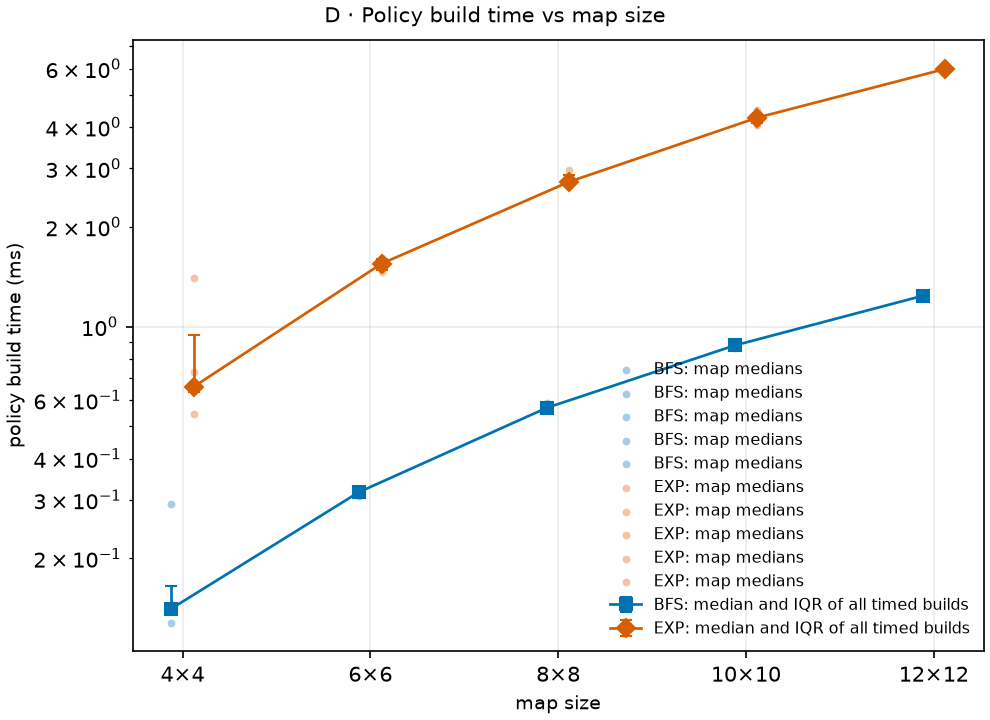
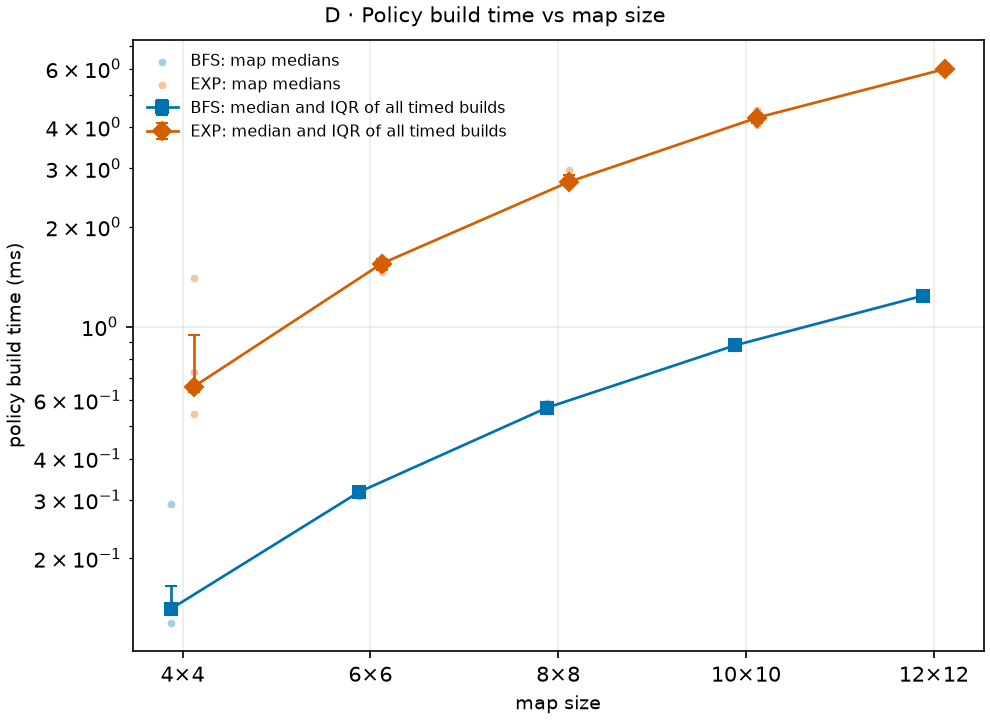
fix: list each base policy once in the build-time legend
Draw the per-map medians of each base policy with a single scatter, so the
legend of figure D has one entry per policy instead of one per map size,
and place the legend where it does not cover the data.

Changed region(s): [[0.6061, 0.4889, 0.9697, 0.8861], [0.1515, 0.0611, 0.5152, 0.2139]]

diff --git a/src/frozen_lake/analysis/figures.py b/src/frozen_lake/analysis/figures.py
@@ -261,22 +261,22 @@ def build_time_vs_size(builds: Sequence[BuildSummary]) -> Figure:
             marker=MARKERS[base], ms=6, capsize=3, lw=1.3, color=color,
             label=f"{base.value}: median and IQR of all timed builds",
         )  # fmt: skip
-        for b in rows:
-            ax.scatter(
-                [b.size + shift] * len(b.per_map_median_ms),
-                b.per_map_median_ms,
-                s=14,
-                color=color,
-                alpha=0.35,
-                linewidths=0,
-                label=f"{base.value}: map medians",
-            )
+        # One scatter for every size at once, so the legend gets one entry per base policy.
+        ax.scatter(
+            [b.size + shift for b in rows for _ in b.per_map_median_ms],
+            [ms for b in rows for ms in b.per_map_median_ms],
+            s=14,
+            color=color,
+            alpha=0.35,
+            linewidths=0,
+            label=f"{base.value}: map medians",
+        )
     ax.set_yscale("log")
     ax.set_xticks(sizes, labels=[f"{n}×{n}" for n in sizes])
     ax.set_xlabel("map size", fontsize=9)
     ax.set_ylabel("policy build time (ms)", fontsize=9)
     ax.grid(alpha=0.25)
-    ax.legend(fontsize=7.5, frameon=False)
+    ax.legend(fontsize=7.5, frameon=False, loc="upper left")
     fig.suptitle("D · Policy build time vs map size", fontsize=10)
     return fig
 
